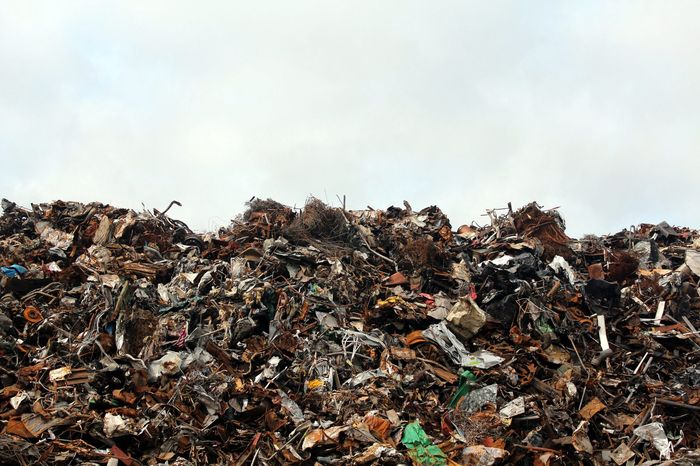
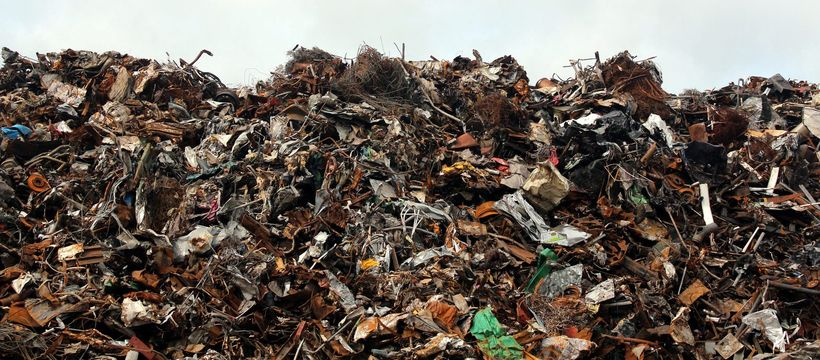
Херо: изчистено кадриране и по-плавен преход на телефон
На живо се виждаха два проблема: снимката показваше голяма ивица небе,
а границата между зеленото и снимката изглеждаше като рязък шев.

- Мобилната версия на снимката е изрязана така, че небето да отпадне
  изцяло (лента 2,3:1 само със скрапа) вместо да се разчита на
  кадриране в браузъра
- Преходът започва от плътно зелено и избледнява до 78% от височината,
  вместо рязко на 42% — двата блока вече се четат като едно цяло

Claude-Session: https://claude.ai/code/session_01MrD7Hzjf8NbetQwwJgFMcP

diff --git a/css/site.css b/css/site.css
@@ -472,8 +472,8 @@ html,body{overflow-x:clip}
   .page-hero--split{display:flex;flex-direction:column;min-height:auto}
   .page-hero--split .hero-copy{padding:30px var(--gutter) 34px}
   .page-hero--split .hero-figure{height:215px;width:100%}
-  .page-hero--split .hero-figure img{object-position:center 62%}
-  .page-hero--split .hero-figure::after{background:linear-gradient(180deg,rgba(15,45,28,.55) 0%,rgba(15,45,28,.08) 42%,rgba(15,45,28,0) 100%)}
+  .page-hero--split .hero-figure img{object-position:center center}
+  .page-hero--split .hero-figure::after{background:linear-gradient(180deg,var(--green-deep) 0%,rgba(15,45,28,.62) 16%,rgba(15,45,28,.18) 44%,rgba(15,45,28,0) 78%)}
 }
 @media(max-width:640px){
   .page-hero--split .hero-copy{padding:26px var(--gutter) 30px}
